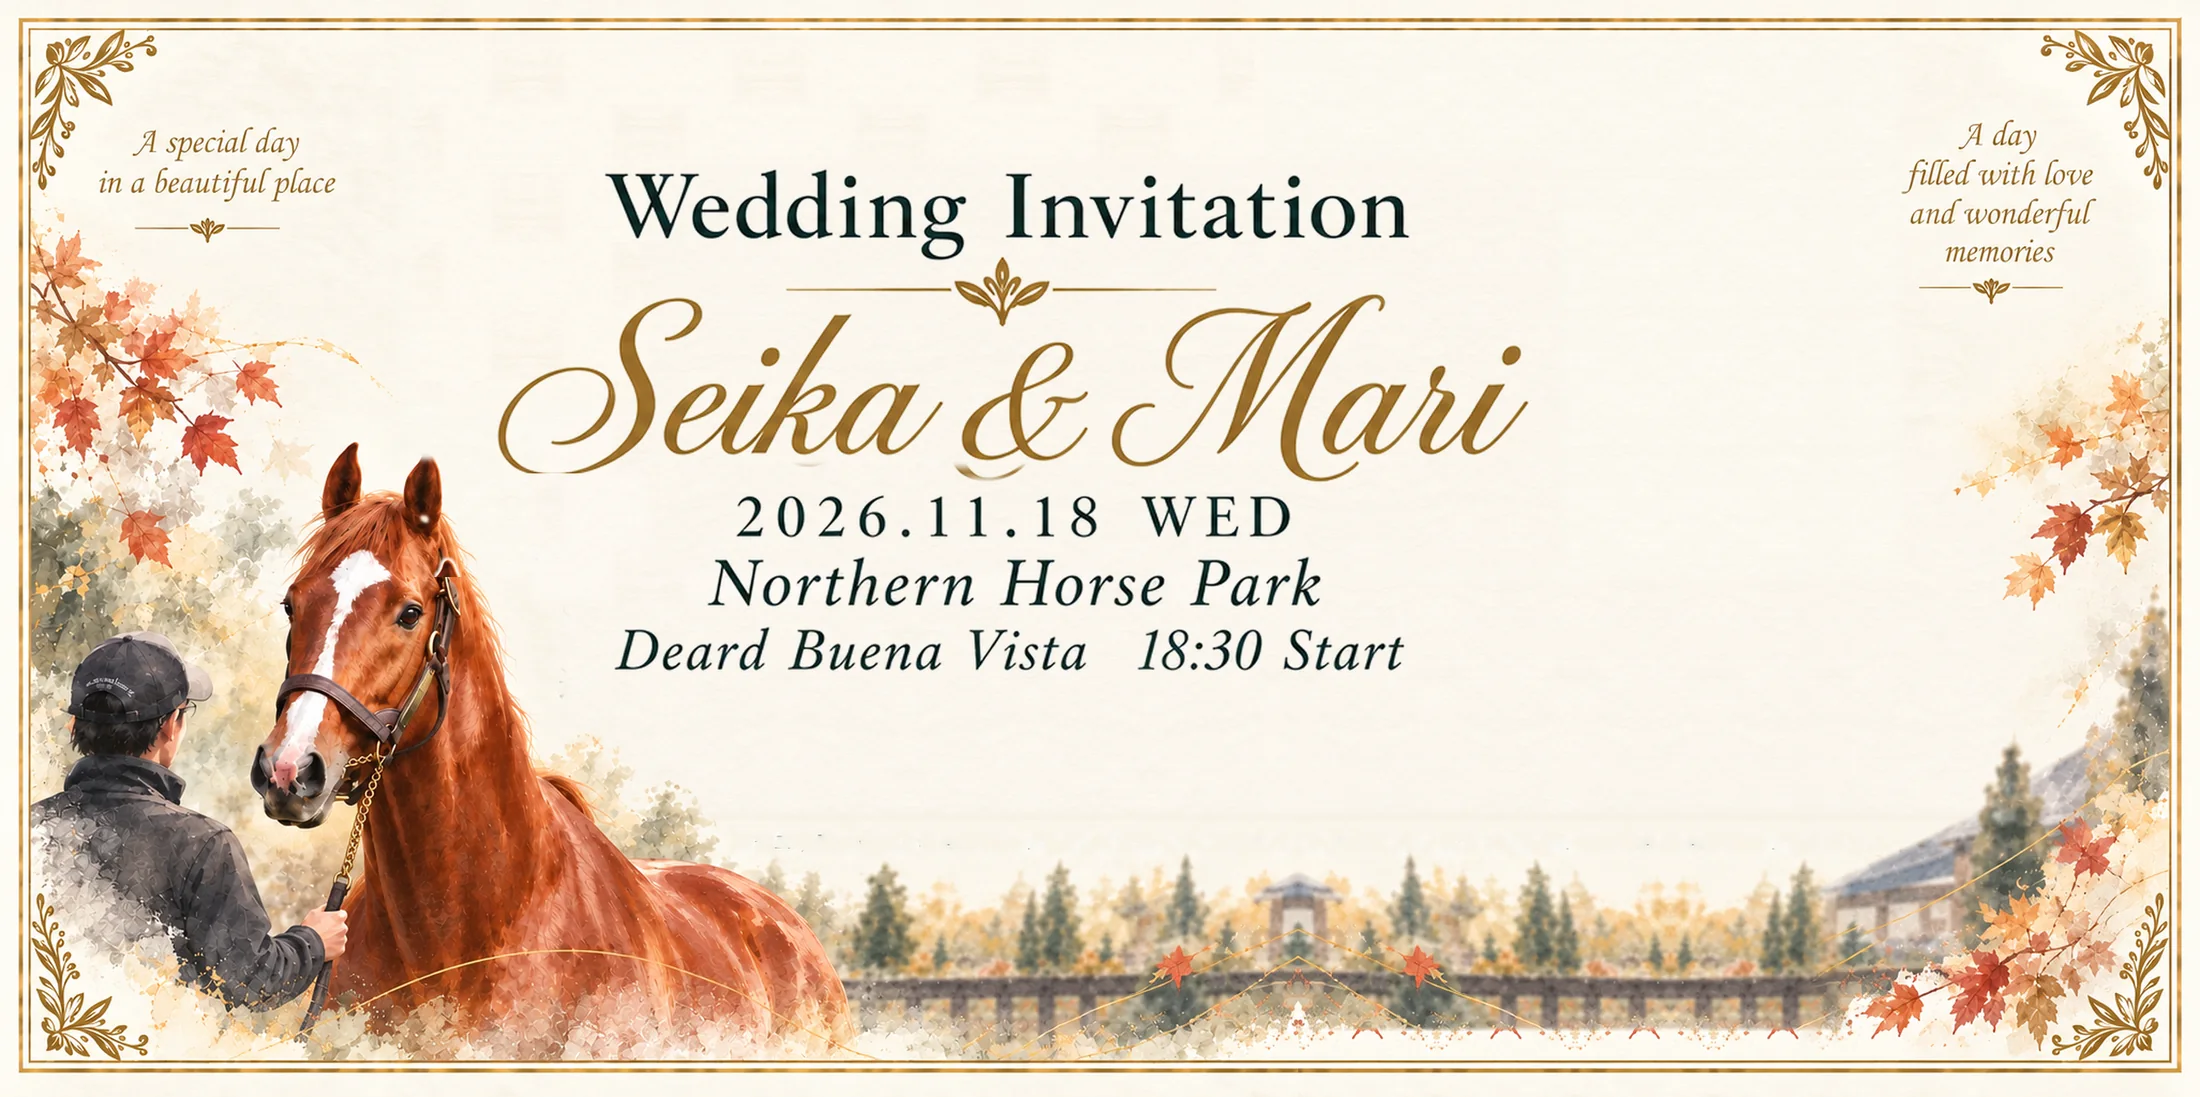
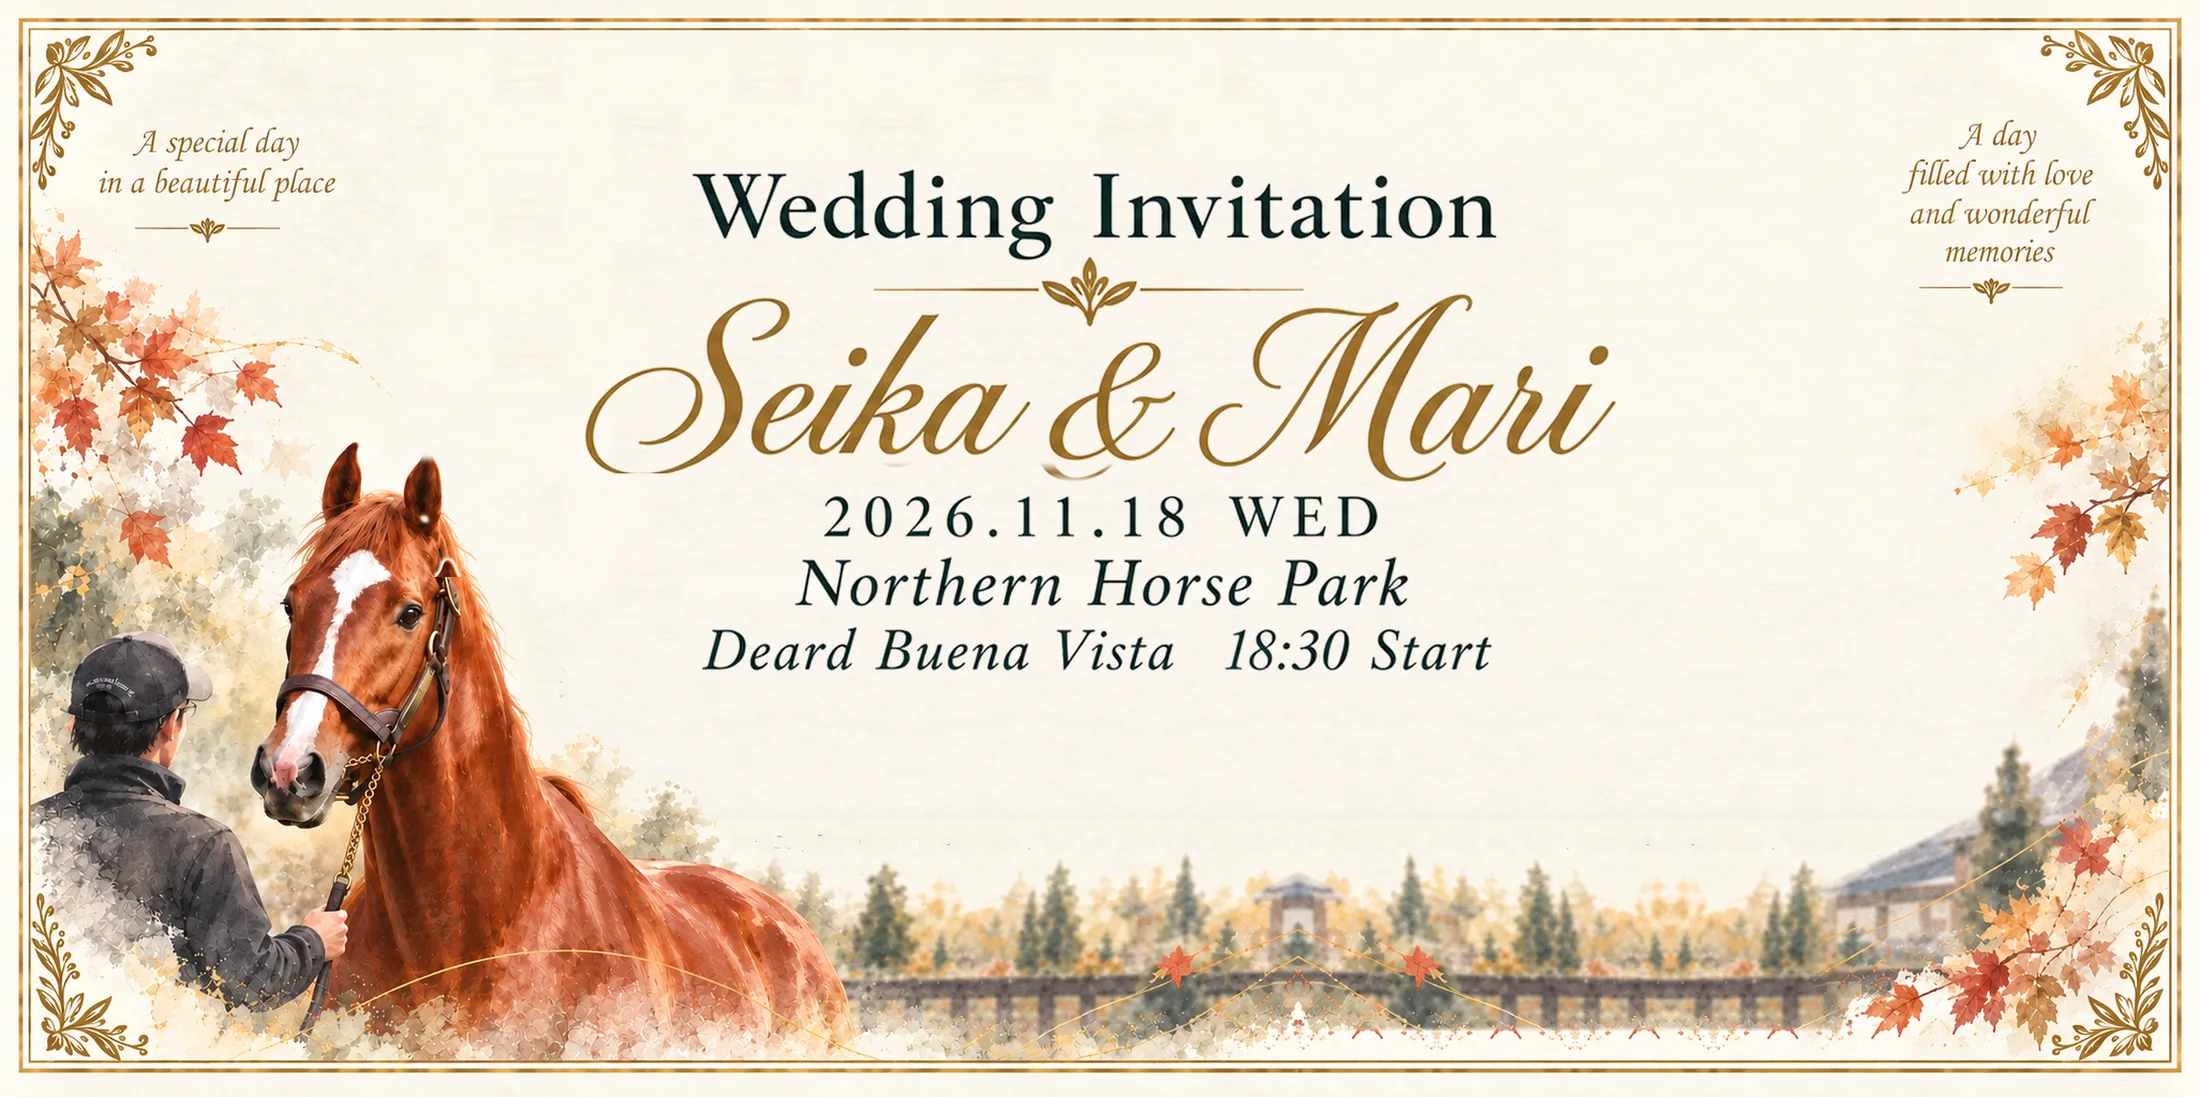
Centre the enlarged hero title; tidy greeting line breaks on phones

Changed region(s): [[0.2164, 0.155, 0.7418, 0.6199]]

diff --git a/index.html b/index.html
@@ -9,7 +9,7 @@
 <meta property="og:url" content="https://seika-mari-wedding.github.io/hokkaido/">
 <meta property="og:title" content="Seika &amp; Mari — お祝いの会のご案内">
 <meta property="og:description" content="2026年11月18日（水）午後6時30分 開宴／ノーザンホースパーク Deard Buena Vista">
-<meta property="og:image" content="https://seika-mari-wedding.github.io/hokkaido/ogp.jpg?v=7">
+<meta property="og:image" content="https://seika-mari-wedding.github.io/hokkaido/ogp.jpg?v=8">
 <meta property="og:image:width" content="1200">
 <meta property="og:image:height" content="630">
 <meta property="og:locale" content="ja_JP">
@@ -228,7 +228,9 @@ footer{padding:clamp(60px,9vw,96px) 0 clamp(50px,7vw,80px);text-align:center}
  .facts > div{grid-template-columns:1fr;gap:6px;padding:20px 2px}
  .facts dt{padding-top:0}
  .stops{grid-template-columns:1fr}
- .card{padding:34px 20px}
+ .card{padding:34px 14px}
+ .card .letter{font-size:13.5px;letter-spacing:.02em;line-height:2.4}
+ .card .line{text-wrap:balance}
  .card-bg img{opacity:.38}
  .card-bg:after{background:radial-gradient(ellipse 70% 60% at center,rgba(253,248,238,.86) 0,rgba(253,248,238,.6) 70%,rgba(253,248,238,.3) 100%)}
  .orn{width:46px;height:52px}
@@ -262,11 +264,11 @@ footer{padding:clamp(60px,9vw,96px) 0 clamp(50px,7vw,80px);text-align:center}
 <main id="main">
 <section class="hero">
   <figure class="hero-card">
-   <img class="hero-bg" src="card-bg.webp?v=7" width="2200" height="1097" fetchpriority="high"
+   <img class="hero-bg" src="card-bg.webp?v=8" width="2200" height="1097" fetchpriority="high"
     alt="Wedding Invitation Seika &amp; Mari／2026.11.18 WED／Northern Horse Park／Deard Buena Vista 18:30 Start と記された、紅葉と馬の水彩画の招待状">
-   <img class="ttl ttl-a" src="title-a.webp?v=7" alt="" aria-hidden="true" style="left:24.727%;top:15.211%;width:39.418%">
-   <img class="ttl ttl-b" src="title-b.webp?v=7" alt="" aria-hidden="true" style="left:20.296%;top:22.58%;width:49.292%">
-   <img class="ttl ttl-c" src="title-c.webp?v=7" alt="" aria-hidden="true" style="left:19.994%;top:44.89%;width:43.942%">
+   <img class="ttl ttl-a" src="title-a.webp?v=8" alt="" aria-hidden="true" style="left:28.7%;top:15.211%;width:39.418%">
+   <img class="ttl ttl-b" src="title-b.webp?v=8" alt="" aria-hidden="true" style="left:24.269%;top:22.58%;width:49.292%">
+   <img class="ttl ttl-c" src="title-c.webp?v=8" alt="" aria-hidden="true" style="left:23.967%;top:44.89%;width:43.942%">
   </figure>
   <div class="hero-under">
    <p class="hero-info"><strong>2026年11月18日（水）午後6時30分 開宴</strong>
